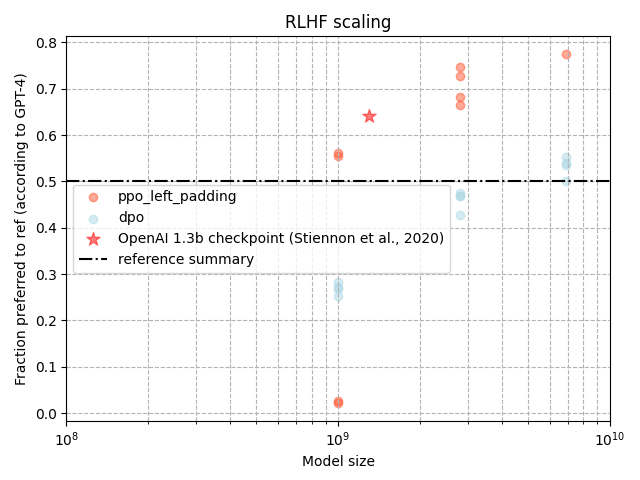
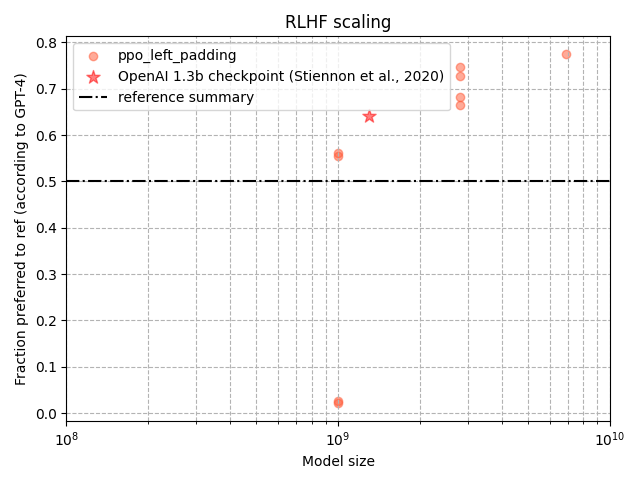
remove dpo analysis (because it's kind of unfair)

diff --git a/eval/rm_sft_scale.py b/eval/rm_sft_scale.py
@@ -97,16 +97,16 @@ df2 = get_runs_df(wandb.Api().runs(
     }
 ))
 plot_reward(df2, colors[1], "dpo reward modeling")
-df2 = get_runs_df(wandb.Api().runs(
-    path=f"costa-huang/tldr_summarize",
-    filters={
-        "$and": [
-            {f"config.exp_name.value": "dpo_not_completion_only"},
-            {"tags": {"$in": ["refactor111"]}},
-        ]
-    }
-))
-plot_reward(df2, colors[2], "dpo (not completion only) reward modeling")
+# df2 = get_runs_df(wandb.Api().runs(
+#     path=f"costa-huang/tldr_summarize",
+#     filters={
+#         "$and": [
+#             {f"config.exp_name.value": "dpo_not_completion_only"},
+#             {"tags": {"$in": ["refactor111"]}},
+#         ]
+#     }
+# ))
+# plot_reward(df2, colors[2], "dpo (not completion only) reward modeling")
 
 
 # Adding the human baseline and ensemble of humans

diff --git a/eval/rlhf_scale.py b/eval/rlhf_scale.py
@@ -57,11 +57,11 @@ runs2 = list(wandb.Api().runs(
 #         ]
 #     }
 # ))
-runs = runs + runs2
+runs = runs # + runs2
 
 pref_rates = {
     "ppo_left_padding": defaultdict(list),
-    "dpo": defaultdict(list),
+    # "dpo": defaultdict(list),
 }
 for run in runs:
     if run.state != "finished":
